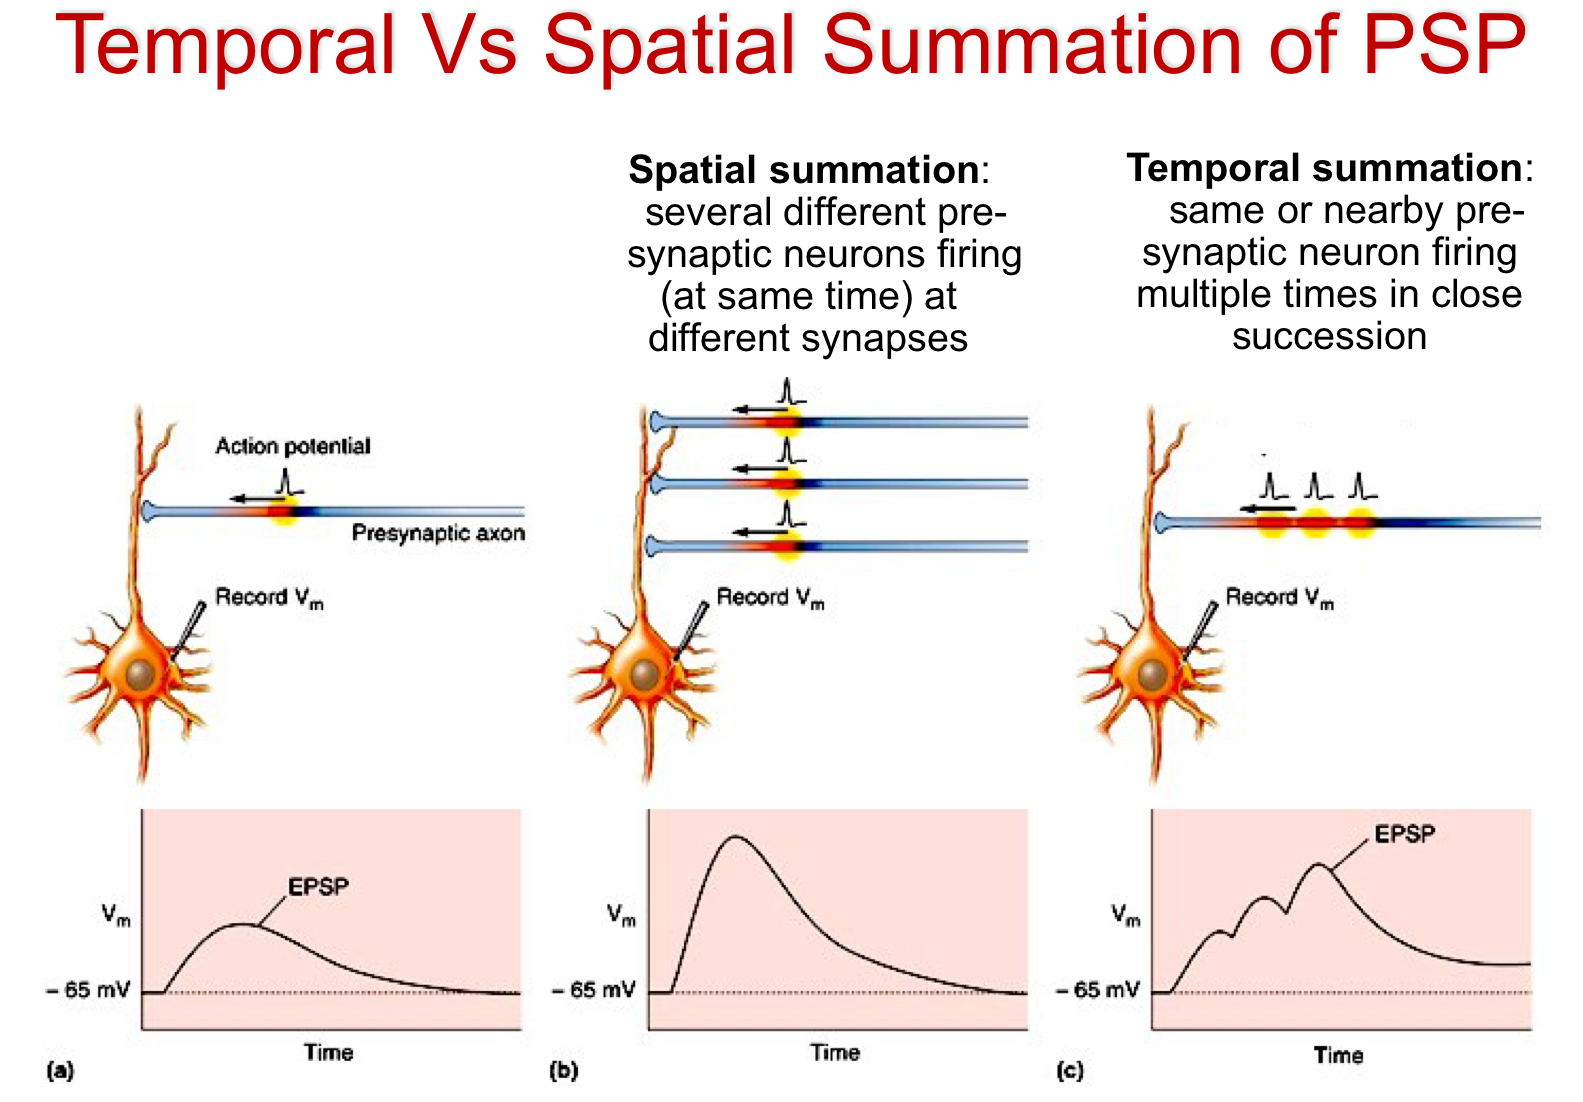
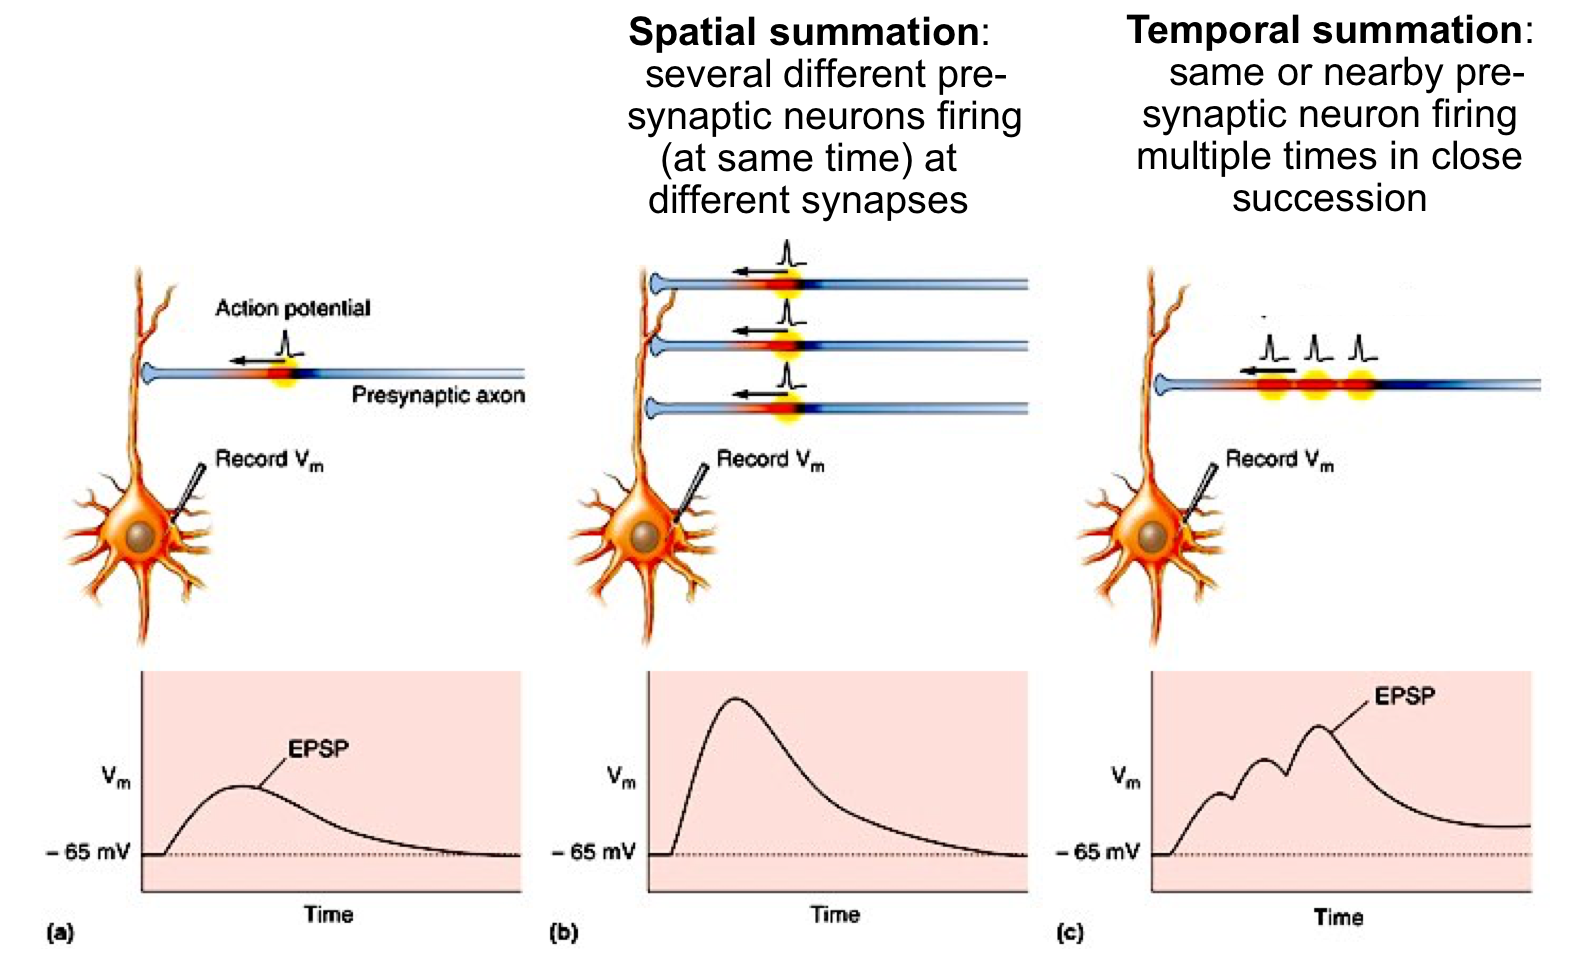
Daily refinements

diff --git a/003_education/kings-college/04_biological_foundations_of_mental_health/spatial_and_temporal_summation.md b/003_education/kings-college/04_biological_foundations_of_mental_health/spatial_and_temporal_summation.md
@@ -2,20 +2,20 @@
 
 ![summation](_attachments/summation.jpg)
 
-Summation refers to the **process by which neurons integrate input signals.** [Graded potential](graded_potential.md)s from different parts of the neuron's body are added together to determine whether the neuron will fire an action potential. There are two types of summation: spatial and temporal.
+Summation refers to the **process by which neurons integrate input signals.** [Graded potentials](graded_potential.md) arising across the dendrites and cell body are added together to determine whether the neuron will fire an action potential at the [axon initial segment](axon_initial_segment.md). There are two types of summation: spatial and temporal.
 
 ## Spatial Summation
 
-Spatial summation occurs when graded potentials from multiple locations on the neuron's body are combined.
+Spatial summation is the **addition of simultaneous inputs from different locations** on the dendrites and cell body of the neuron.
 
-- It refers to the addition of simultaneous inputs from different locations on the dendrites and cell body of the neuron.
-- Inputs from multiple presynaptic neurons can be integrated at the same time to alter the membrane potential significantly.
-- If the combined effect of these simultaneous inputs is sufficient to reach the threshold potential, an action potential will be generated.
+- Inputs from multiple presynaptic neurons arrive at the same time, and their graded potentials combine as they spread across the postsynaptic membrane.
+- Inputs can be excitatory (depolarising) or inhibitory (hyperpolarising); it is their net effect that matters.
+- If this net effect is sufficient to reach the threshold potential, an action potential will be generated.
 
 ## Temporal Summation
 
-Temporal summation occurs when a single presynaptic neuron fires action potentials so rapidly that the effects of each individual [graded potential](graded_potential.md) are combined.
+Temporal summation is the **addition of successive inputs from the same location** over a short period of time, occurring when a single presynaptic neuron fires action potentials in rapid succession.
 
-- It refers to the addition of successive inputs from the same location on the dendrites and cell body over a short period of time.
+- Each new graded potential begins before the previous one has fully decayed, so their effects accumulate on top of one another.
 - A single presynaptic neuron can thus influence whether the postsynaptic neuron reaches the threshold potential.
 - If the combined effect of these successive inputs is sufficient to reach the threshold potential, an action potential will be generated.
